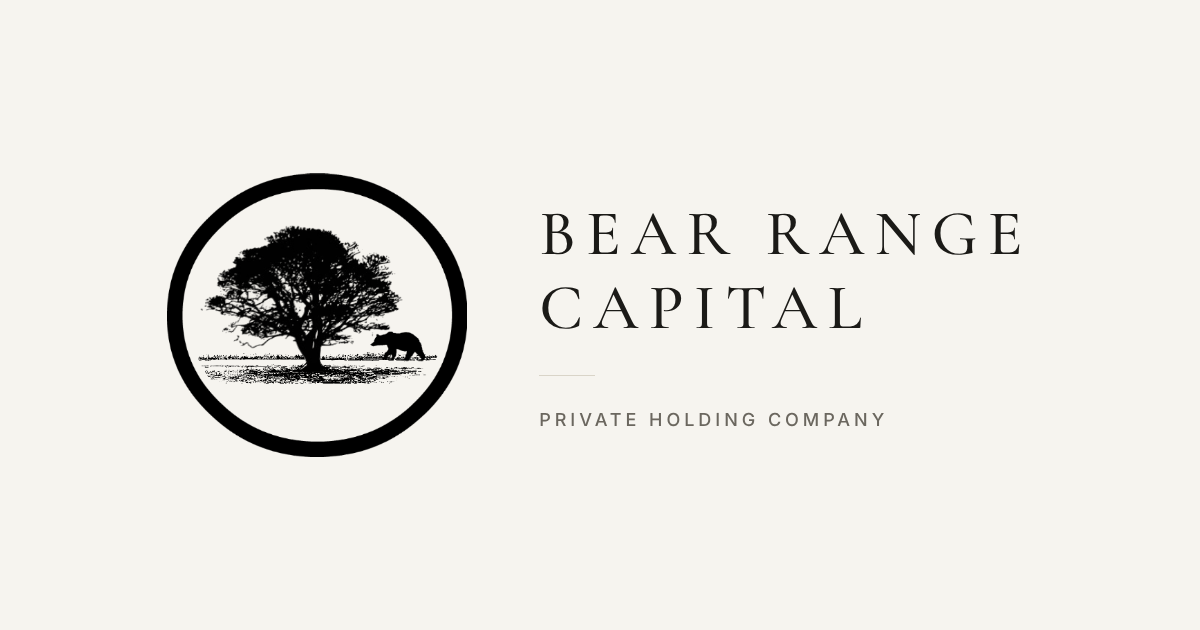
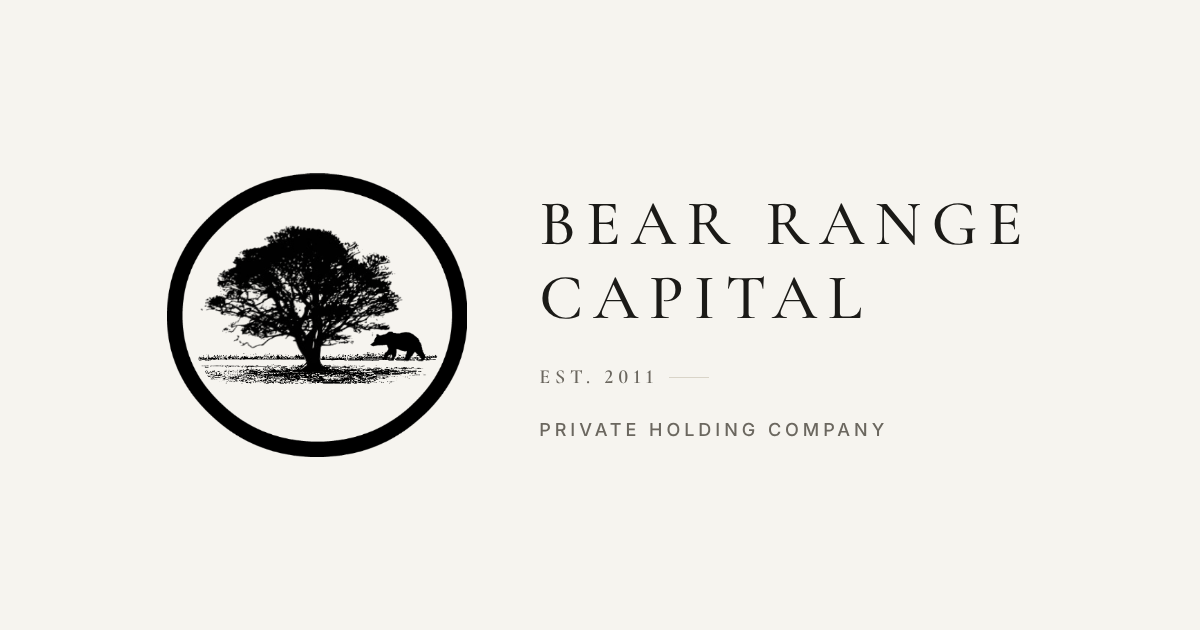
Add "Est. 2011"; keep the email address out of the HTML
The email address is assembled in the browser by site.js, so bots that
scrape pages for addresses don't find it; people still see and click
info@bearrangecapital.com. Without JavaScript it reads
"info [at] bearrangecapital [dot] com". "Est. 2011" sits between two
short rules under the name, and on the link-preview image.

Claude-Session: https://claude.ai/code/session_01FM56STmtYCdCUGpTQYWGwf

diff --git a/index.html b/index.html
@@ -4,7 +4,7 @@
   <meta charset="utf-8">
   <meta name="viewport" content="width=device-width, initial-scale=1, viewport-fit=cover">
   <title>Bear Range Capital</title>
-  <meta name="description" content="Bear Range Capital is a private holding company. Contact info@bearrangecapital.com.">
+  <meta name="description" content="Bear Range Capital is a private holding company.">
   <meta name="theme-color" content="#f6f4ef">
   <link rel="canonical" href="https://bearrangecapital.com/">
 
@@ -34,15 +34,13 @@
   <main class="hero">
     <img class="logo" src="/images/logo.png" width="434" height="410" alt="Bear Range Capital logo: a tree and a bear inside a circle">
     <h1 class="wordmark">Bear Range Capital</h1>
-    <hr class="rule">
+    <p class="established"><span>Est. 2011</span></p>
     <p class="tagline">Private holding company</p>
-    <a class="email" href="mailto:info@bearrangecapital.com">info@bearrangecapital.com</a>
+    <a class="email" data-email>info [at] bearrangecapital [dot] com</a>
   </main>
 
   <footer class="footer">&copy; <span data-year>2026</span> Bear Range Capital</footer>
 
-  <script>
-    document.querySelectorAll('[data-year]').forEach(function (el) { el.textContent = new Date().getFullYear(); });
-  </script>
+  <script src="/site.js"></script>
 </body>
 </html>

diff --git a/invalid.html b/invalid.html
@@ -50,7 +50,7 @@
         <button class="button" type="submit">Sign in</button>
       </form>
 
-      <p class="help">Need access? Contact <a href="mailto:info@bearrangecapital.com">info@bearrangecapital.com</a></p>
+      <p class="help">Need access? Contact <a data-email>info [at] bearrangecapital [dot] com</a></p>
     </div>
 
     <a class="back-link" href="/">&larr; Back to Bear Range Capital</a>
@@ -58,9 +58,8 @@
 
   <footer class="footer">&copy; <span data-year>2026</span> Bear Range Capital</footer>
 
+  <script src="/site.js"></script>
   <script>
-    document.querySelectorAll('[data-year]').forEach(function (el) { el.textContent = new Date().getFullYear(); });
-
     (function () {
       var form = document.getElementById('login');
       var email = document.getElementById('email');

diff --git a/partners.html b/partners.html
@@ -50,7 +50,7 @@
         <button class="button" type="submit">Sign in</button>
       </form>
 
-      <p class="help">Need access? Contact <a href="mailto:info@bearrangecapital.com">info@bearrangecapital.com</a></p>
+      <p class="help">Need access? Contact <a data-email>info [at] bearrangecapital [dot] com</a></p>
     </div>
 
     <a class="back-link" href="/">&larr; Back to Bear Range Capital</a>
@@ -58,9 +58,8 @@
 
   <footer class="footer">&copy; <span data-year>2026</span> Bear Range Capital</footer>
 
+  <script src="/site.js"></script>
   <script>
-    document.querySelectorAll('[data-year]').forEach(function (el) { el.textContent = new Date().getFullYear(); });
-
     (function () {
       var form = document.getElementById('login');
       var email = document.getElementById('email');

diff --git a/styles.css b/styles.css
@@ -162,6 +162,35 @@ img {
   background: var(--rule);
 }
 
+.established {
+  display: flex;
+  align-items: center;
+  justify-content: center;
+  gap: 16px;
+  margin: 26px 0 22px;
+  font-family: var(--serif);
+  font-weight: 600;
+  font-size: 15px;
+  letter-spacing: 0.24em;
+  text-transform: uppercase;
+  color: var(--muted);
+  font-variant-numeric: lining-nums;
+  font-feature-settings: "lnum" 1;
+}
+
+.established::before,
+.established::after {
+  content: "";
+  width: 40px;
+  height: 1px;
+  background: var(--rule);
+}
+
+/* letter-spacing leaves space after the last letter; trim it so the lines sit evenly */
+.established span {
+  margin-right: -0.24em;
+}
+
 .tagline {
   margin: 0 0 14px;
   font-size: 13px;

diff --git a/site.js b/site.js
@@ -1,0 +1,15 @@
+// Bear Range Capital — small page helpers.
+
+// Current year in the footer.
+document.querySelectorAll('[data-year]').forEach(function (el) {
+  el.textContent = new Date().getFullYear();
+});
+
+// The email address is not written in the HTML, so bots that scrape pages
+// for addresses don't find it. It is put together here, in the browser,
+// and turned into a normal clickable link.
+document.querySelectorAll('[data-email]').forEach(function (el) {
+  var address = ['info', 'bearrangecapital.com'].join('@');
+  el.textContent = address;
+  el.setAttribute('href', 'mai' + 'lto:' + address);
+});

diff --git a/README.md b/README.md
@@ -12,6 +12,7 @@ Static landing page for Bear Range Capital, hosted on Vercel. There is no build 
 
 ## Files
 - `styles.css` – all styling (colours at the top under `:root`)
+- `site.js` – footer year, and the email address (assembled in the browser so it is not in the HTML for spam bots)
 - `fonts/` – Cormorant Garamond and Inter, self-hosted (SIL Open Font License, see the LICENSE files)
 - `images/logo.png` – the logo, pure black on transparent
 - `images/BRCLogoTransparent.png` – the original logo file, kept as the source
